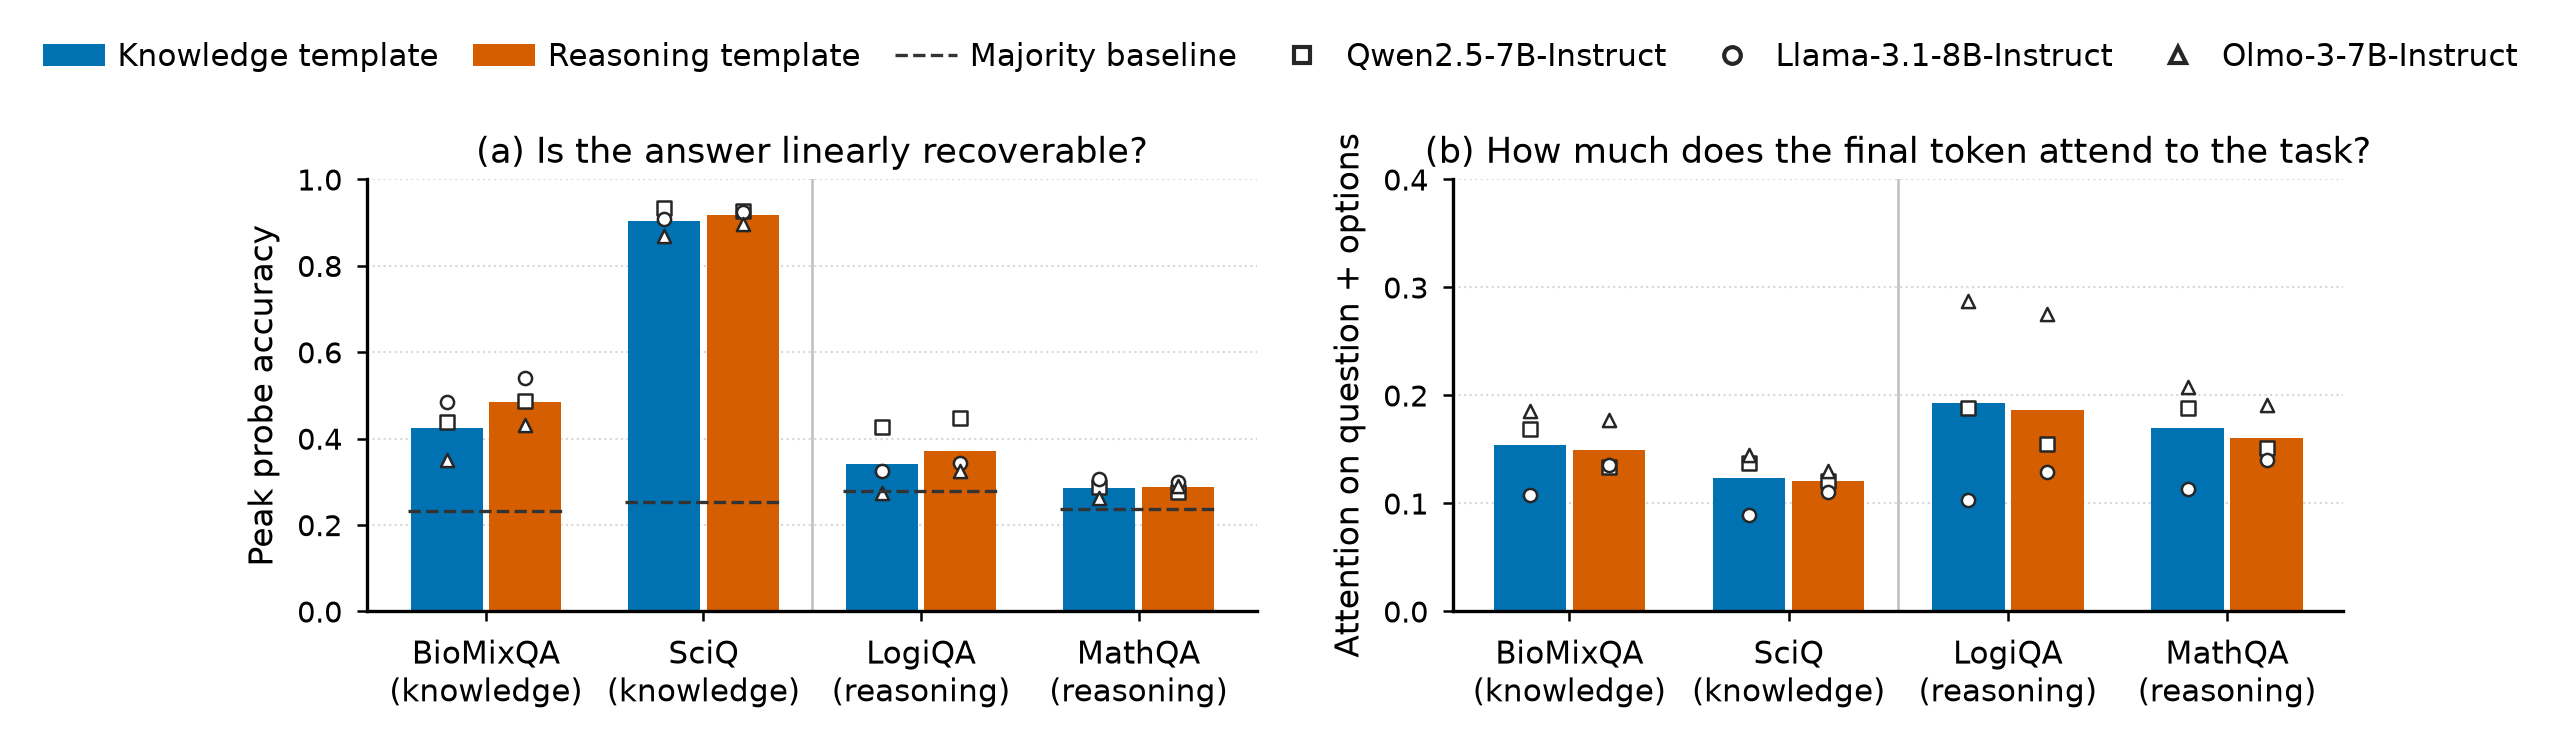
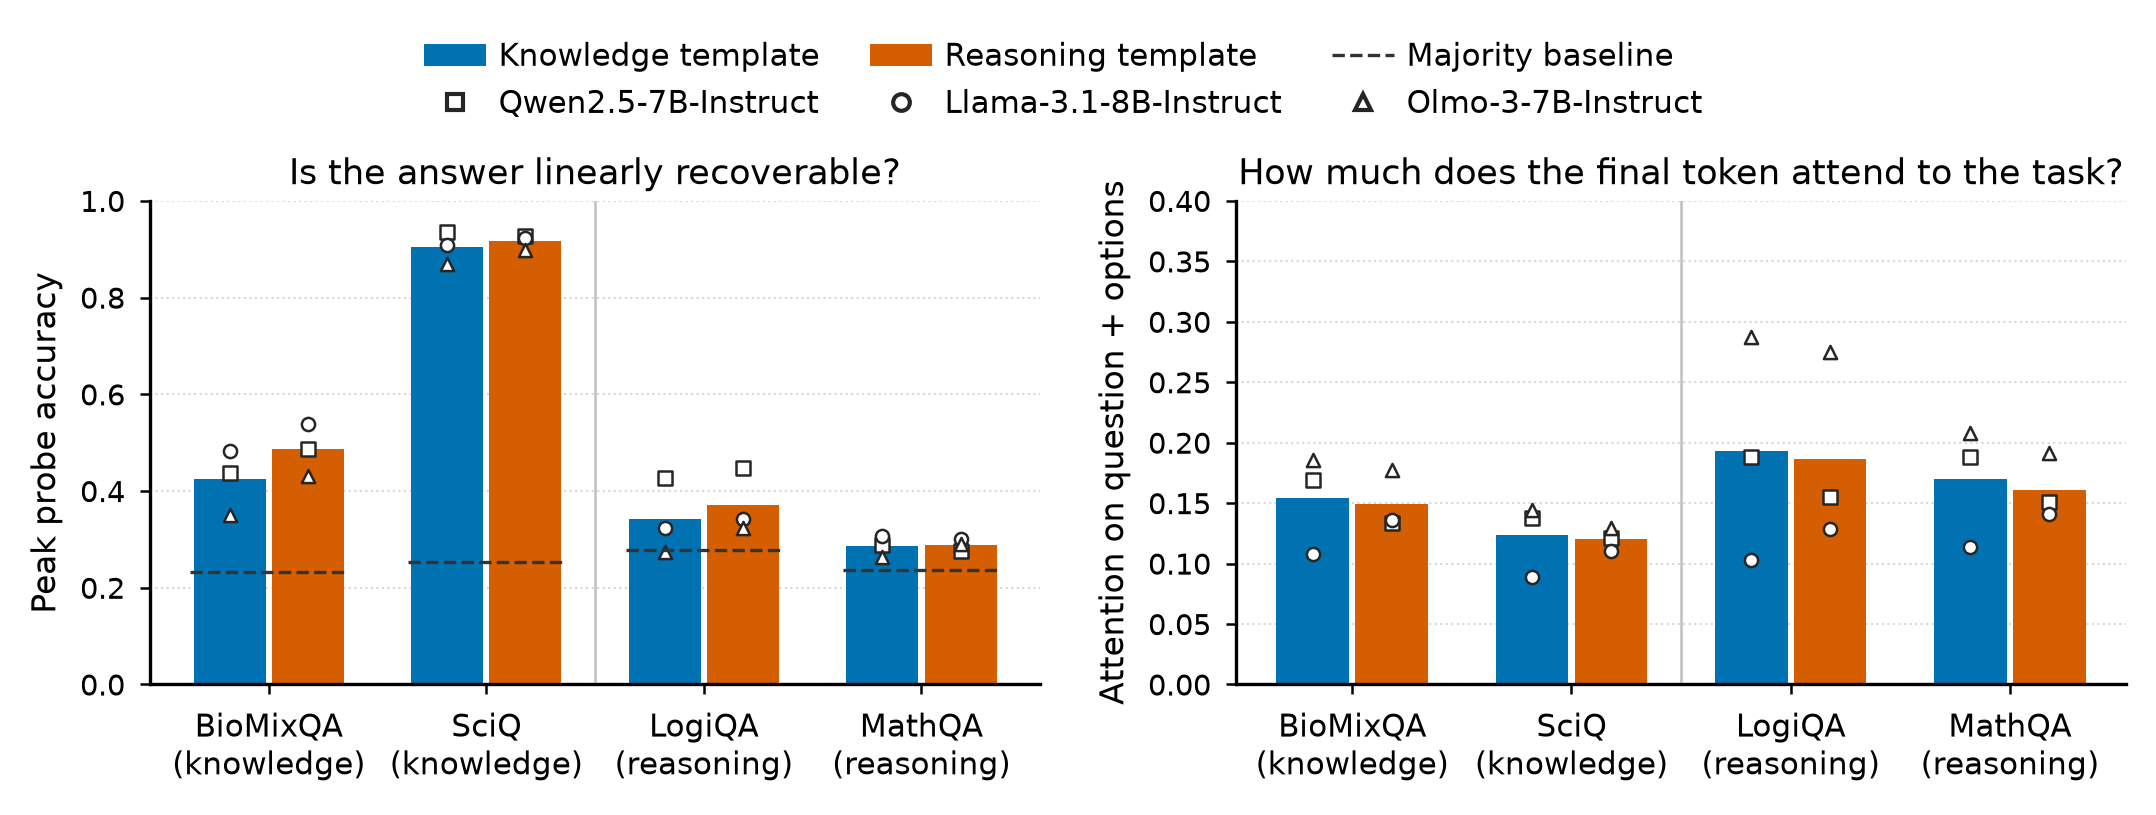
Template-swap figure: drop panel letters, two-row legend

diff --git a/scripts/prompt_control.py b/scripts/prompt_control.py
@@ -1056,7 +1056,7 @@ SWAP_TEMPLATES = {"T_K": ("Knowledge template", "#0072B2"),
 def run_plot_swap(args: argparse.Namespace) -> None:
     """Template swap: every benchmark under both Figure 10 templates.
 
-    (a) peak probe accuracy, (b) the final token's attention mass on the
+    Left: peak probe accuracy; right: the final token's attention mass on the
     question and options -- the content both templates share, so unlike the
     instruction or cue it is comparable across them.  Bars are the mean over the three models,
     points the individual models; dashes in (a) mark the majority baseline.
@@ -1080,12 +1080,12 @@ def run_plot_swap(args: argparse.Namespace) -> None:
     plt.rcParams.update({"font.family": "sans-serif", "font.size": 7.5,
                          "axes.titlesize": 8.5, "axes.labelsize": 8,
                          "xtick.labelsize": 7.5, "ytick.labelsize": 7, "legend.fontsize": 7.5})
-    fig, axes = plt.subplots(1, 2, figsize=(7.16, 2.4),
-                             gridspec_kw={"left": 0.075, "right": 0.995, "bottom": 0.2,
+    fig, axes = plt.subplots(1, 2, figsize=(7.16, 2.6),
+                             gridspec_kw={"left": 0.075, "right": 0.995, "bottom": 0.18,
                                           "top": 0.8, "wspace": 0.22})
     width = 0.36
-    panels = [(peak, "(a) Is the answer linearly recoverable?", "Peak probe accuracy", (0.0, 1.0)),
-              (content, "(b) How much does the final token attend to the task?",
+    panels = [(peak, "Is the answer linearly recoverable?", "Peak probe accuracy", (0.0, 1.0)),
+              (content, "How much does the final token attend to the task?",
                "Attention on question + options", (0.0, 0.4))]
     for ax, (values, title, ylabel, ylim) in zip(axes, panels):
         for i, dataset in enumerate(DATASETS):
@@ -1114,8 +1114,12 @@ def run_plot_swap(args: argparse.Namespace) -> None:
     handles += [plt.Line2D([], [], linestyle="none", marker=MODEL_MARKERS[m], markerfacecolor="white",
                            markeredgecolor="0.15", markersize=4) for m in MODELS]
     labels += [MODEL_LABELS[m] for m in MODELS]
-    fig.legend(handles, labels, loc="upper center", bbox_to_anchor=(0.5, 1.03), ncol=6,
-               frameon=False, handletextpad=0.4, columnspacing=1.1)
+    # Two legend rows (templates + baseline, then models) leave the panels wider.
+    # Matplotlib fills legend columns first, so interleave the two rows.
+    order = [0, 3, 1, 4, 2, 5]
+    handles, labels = [handles[i] for i in order], [labels[i] for i in order]
+    fig.legend(handles, labels, loc="upper center", bbox_to_anchor=(0.5, 1.04), ncol=3,
+               frameon=False, handletextpad=0.4, columnspacing=1.6)
     _save(fig, args.stem)
     plt.close(fig)
 
